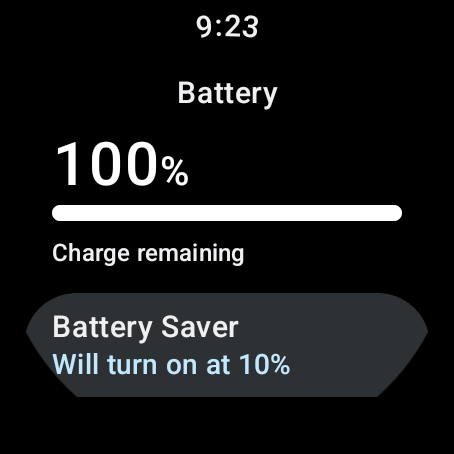
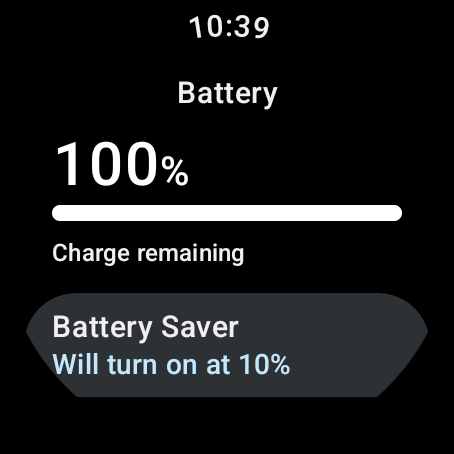
Record larger layout, gauge styling and verified weather tap evidence [skip ci]

Changed region(s): [[0.4009, 0.0308, 0.6167, 0.0925]]

diff --git a/docs/VALIDATION.md b/docs/VALIDATION.md
@@ -7,7 +7,7 @@ Build environment: Linux x86-64, Temurin JDK 17, Gradle 8.13, Android Gradle Plu
 | Check | Result |
 | --- | --- |
 | Generated WFF matches source generator | Pass |
-| Eight regression checks | Pass |
+| Eleven regression checks | Pass |
 | Official WFF validator 1.7.0, format 2 | Pass |
 | Debug APK and unsigned release AAB | Build successfully |
 | APK/AAB contents | No DEX; referenced images present |
@@ -15,7 +15,7 @@ Build environment: Linux x86-64, Temurin JDK 17, Gradle 8.13, Android Gradle Plu
 | Official memory evaluator, APK and AAB | Pass: active 3,551,360 bytes; ambient 3,181,712 bytes |
 | Whitespace/diff check | Pass |
 
-The regression checks cover six stable slots and their type renderers, distinct tap regions inside the circular screen, disjoint runtime rectangles and bounded rendering parts, all 16 weather conditions with day/night assets, unavailable forecast fallbacks, every hour across midnight/noon, and ambient layer visibility. A pixel-by-pixel geometry check verifies the complete horizontal edge-caption rectangles remain inside their clipping masks and the round screen. Resource-label checks also prevent Android-style `@string/` references in raw WFF editor attributes; WFF expects bare resource names.
+The regression checks cover six stable slots and their type renderers, distinct tap regions inside the circular screen, disjoint runtime rectangles and bounded rendering parts, all 16 weather conditions with day/night assets, unavailable forecast fallbacks, every hour across midnight/noon, and ambient layer visibility. A pixel-by-pixel geometry check verifies the complete rotated edge-caption rectangles remain inside their clipping masks and the round screen. A separate clearance check keeps the gauge strokes clear of those captions. Additional checks keep the minutes/seconds apart and prevent either weather tap target from overlapping a complication. Resource-label checks also prevent Android-style `@string/` references in raw WFF editor attributes; WFF expects bare resource names.
 
 Lint advisories include newer available tool versions, raw-WFF resource references that Android lint cannot trace, and backup metadata for a code-free package. No resource shrinking is enabled, and the package check confirms referenced image resources survive packaging.
 
@@ -25,23 +25,25 @@ Lint advisories include newer available tool versions, raw-WFF resource referenc
 
 The local Wear OS API 34 emulator was launched with software CPU emulation because this host has no `/dev/kvm`. It reached Android startup, but `system_server` repeatedly exceeded its 61-second watchdog timeout before package installation was available. These are operating-system boot failures; **no successful local install, watch-face rendering, complication interaction or ambient screenshot is claimed**.
 
-Hardware-accelerated [GitHub run 35470002909](https://github.com/DylanMc25/ultrawatchfaceedits/actions/runs/35470002909), commit `d6832f3`, passed builds/validation and both emulator jobs. The actual captures were downloaded and visually reviewed:
+Hardware-accelerated [GitHub run 35473692442](https://github.com/DylanMc25/ultrawatchfaceedits/actions/runs/35473692442), commit `38ca287`, passed builds/validation and both emulator jobs. The actual captures were downloaded and visually reviewed:
 
 | Check | API 34, 454 × 454 round | API 35-ext15, 384 × 384 round |
 | --- | --- | --- |
 | APK installation and face activation | Pass | Pass |
 | Blue gradient, stacked time, date and six areas | Rendered | Rendered |
-| 12/24-hour preference | 09 / 21 hours; forecast labels switch | 09 / 21 hours; forecast labels switch |
+| 12/24-hour preference | 10 / 22 hours; forecast labels switch | 10 / 22 hours; forecast labels switch |
 | Missing weather | `Weather —`, four dashes, future-hour labels | Same |
 | Default providers | Heart rate, steps, battery; unavailable sunrise/sunset | Same |
 | Black always-on with time/date only | Pass, display state `DOZE` | Pass, display state `DOZE` |
-| Ambient illuminated area at captured time | 2.9371% | 4.4743% |
+| Ambient illuminated area at captured time | 4.2275% | 2.1258% |
 
 Illumination counts every non-black pixel within the round screen, including system overlays, with no brightness cutoff. Both captures are below the documented [15% limit](https://developer.android.com/training/wearables/wff/ambient). These measurements establish the captured date/time only, not every possible date, font or device. These captures emulate an unplugged battery so the charging overlay does not cover the shortcut; API 35 still shows the system unread-status dot.
 
 The emulator weather service returned an internal server error; no populated native forecast is claimed. Heart rate and steps are supplied by the emulator's installed providers and are not physical health measurements. Missing provider icons render empty. No readings are fabricated by the face.
 
-Version 0.1.1 fixes edge text cropped by the arc clipping masks. Both edge captions are now horizontal and inset, with smaller text for longer provider values. Rounded rectangular masks contain the complete text rectangles while preserving the six disjoint interaction areas. Native captures still showed cropped bars on the smaller display after widening the earlier arc masks. Rounded bounds preserve the bars and captions and align editor selection with the runtime slot rectangles.
+Version 0.1.2 enlarges forecast temperatures (18 to 26), forecast times (14 to 19), main complication readings (21–23 to 32 for short values), provider titles (11 to 15), seconds (25 to 32), and the bottom shortcut (15–16 to 20). Longer values use smaller type to fit. Minutes are shifted left with a separate seconds column. The battery gauge now uses twelve radial ticks; the right edge has a thicker arc. Both edges use provider icons and angled labels inspired by the original reference. Rounded rectangular masks preserve complete rotated text and disjoint interaction areas.
+
+The weather reading and forecast region now have WFF `Launch` actions targeting `com.samsung.android.watch.weather`, including the unavailable-data state. WFF 2 has no generic weather shortcut in its [documented system launch targets](https://developer.android.com/reference/wear-os/wff/common/launch). Samsung Weather is not bundled in the stock emulators; native tap diagnostics record package-launch requests separately from actual app launch success. Both emulators record the correct package request from both tap areas, with no accidental complication launch. The `api*-weather-*-launch.txt` files show the missing-package/market fallback explicitly. Opening the Samsung app itself remains a physical Galaxy Watch check.
 
 Runtime testing also caught a battery tap being dispatched from the steps circle. The edge slots and all rendering parts now have bounded, disjoint rectangles, with a dedicated regression test; the circular/arc outlines alone were insufficient for native tap dispatch. The native interaction script confirms the blue face before every coordinate tap and reports any launch from the wrong slot.
 
@@ -55,7 +57,7 @@ Native tap logs identify the correct steps, sunrise/sunset and battery slots (2,
 
 The native editor supplies sample data: September 28 at 09:30, populated weather, heart rate, steps and sunset. Its captures verify the native populated-weather glyphs and spacing, including compact sunset text. These are **Wear OS editor sample readings**, not live weather or health. The actual face continues to display dashes when live weather is unavailable.
 
-The final API 34 ambient capture shows stippled text; API 35 shows continuous thin text. Both remain below 5% illumination. The measurement applies to each captured state; brightness and readability still need physical Galaxy Watch review.
+The final API 34 ambient capture shows continuous thin text; API 35 shows stippled text. Both remain below 5% illumination. The measurement applies to each captured state; brightness and readability still need physical Galaxy Watch review.
 
 ### Coverage boundaries
 
@@ -63,10 +65,12 @@ The final API 34 ambient capture shows stippled text; API 35 shows continuous th
 | --- | --- |
 | September date, real device text metrics | Reviewed on both emulators; no time/date clipping |
 | Longer localized dates, all wide digit pairs | Ellipsis/fit policies implemented; exhaustive native captures pending |
-| Midnight/noon and forecast rollover | All 24 input hours checked against generated label expressions; native captures also show 23:00 / 01:00 / 03:00 / 05:00 forecast labels and 12-hour equivalents. Main-clock noon/midnight transitions remain pending |
+| Midnight/noon and forecast rollover | All 24 input hours checked against generated label expressions; native captures also show 00:00 / 02:00 / 04:00 / 06:00 forecast labels and 12-hour equivalents. Main-clock noon/midnight transitions remain pending |
 | Temperature extremes and unit changes | Uses native temperature values; real weather service unavailable in these emulators |
 | Empty right/bottom complications | Setup placeholders rendered |
-| Edge labels on both display sizes | Battery “100” and assigned Alarm “Set” fully visible; six selectors and correct tap dispatch verified |
+| Edge labels on both display sizes | Angled battery “100” and assigned Alarm “Set” fully visible and clear of the gauges |
+| Weather tap areas | Both request Samsung Weather without dispatching a complication; the absent app causes the documented market fallback. Real Samsung app launch pending |
+| Larger readings and seconds | Native active/editor captures reviewed on both sizes; forecast values, provider values/titles and separated seconds remain readable |
 | Unavailable weather and sunrise/sunset | Observed in native captures |
 | Health permission denial | Physical provider consent flow pending |
 | Six separate touch targets | Visible selection geometry and rectangular runtime bounds pass regression checks; all six provider choosers opened independently on both emulators |

diff --git a/docs/PULL_REQUEST.md b/docs/PULL_REQUEST.md
@@ -1,6 +1,6 @@
 # Build blue stacked-time watch face with weather and six complications
 
-Replaces the placeholder Ultra Info Board layout with a blue gradient, oversized stacked time, three staggered circular complications, editable left/right edge indicators, and a bottom shortcut. Adds native current weather and four forecasts (+2/+4/+6/+8 hours), plus a black always-on time/date display. Default readings are heart rate, steps, sunrise/sunset and battery; the right edge and shortcut start unassigned. Edge captions are horizontal and inset, with rounded rectangular clipping masks so battery percentages and assigned provider text stay visible on round screens.
+Replaces the placeholder Ultra Info Board layout with a blue gradient, oversized stacked time, three staggered circular complications, editable left/right edge indicators, and a bottom shortcut. Adds native current weather and four forecasts (+2/+4/+6/+8 hours), plus a black always-on time/date display. Default readings are heart rate, steps, sunrise/sunset and battery; the right edge and shortcut start unassigned. Larger complication and forecast text improves readability. Minutes move left to give larger seconds their own column. The edges use a segmented left gauge, thicker right arc, provider icons and angled labels, with rounded rectangular clipping masks. Both weather areas target Samsung Weather on Galaxy Watch.
 
 ![Actual API 34 active face](https://raw.githubusercontent.com/DylanMc25/ultrawatchfaceedits/codex/watchface-redesign/docs/previews/emulator-api34-active.png)
 ![Actual API 35 ambient face](https://raw.githubusercontent.com/DylanMc25/ultrawatchfaceedits/codex/watchface-redesign/docs/previews/emulator-api35-ambient.png)
@@ -9,10 +9,10 @@ These are actual Wear OS emulator captures. Weather is unavailable in the emulat
 
 Repairs resource-only WFF 2 packaging, restores the pinned Gradle wrapper, produces a code-free debug APK and unsigned release AAB, and adds build/schema/memory checks plus round Wear OS emulator capture jobs. Includes editable-slot geometry checks, forecast rollover checks, original weather assets, picker preview, and installation/release documentation.
 
-Validation evidence and platform-test limitations are tracked in [docs/VALIDATION.md](https://github.com/DylanMc25/ultrawatchfaceedits/blob/codex/watchface-redesign/docs/VALIDATION.md). Local builds, lint (no errors), eight regression tests, official schema validation, package resource checks, and memory validation pass.
+Validation evidence and platform-test limitations are tracked in [docs/VALIDATION.md](https://github.com/DylanMc25/ultrawatchfaceedits/blob/codex/watchface-redesign/docs/VALIDATION.md). Local builds, lint (no errors), eleven regression tests, official schema validation, package resource checks, and memory validation pass.
 
 Both API 34 (454 px round) and API 35 (384 px round) render the face, follow 12/24-hour settings and enter the black ambient display. Reviewed ambient captures illuminate under 5% of the round screen, including system indicators. Complete evidence and untested cases are documented rather than inferred from build success.
 
-All six slots independently open their native provider chooser on both emulators. Steps, sunrise/sunset and battery taps dispatch to the correct slots, and battery opens system Battery settings. The native editor also renders the populated weather layout using its own sample data. The assigned Alarm edge label is also fully visible on both sizes. Real health-provider launches, live weather and provider persistence across updates/reboots remain physical-device checks. [Passing build, validation and emulator run](https://github.com/DylanMc25/ultrawatchfaceedits/actions/runs/35470002909).
+All six slots independently open their native provider chooser on both emulators. Steps, sunrise/sunset and battery taps dispatch to the correct slots, and battery opens system Battery settings. The native editor also renders the populated weather layout using its own sample data. The assigned Alarm edge label is also fully visible on both sizes. Both weather tap areas request the correct Samsung Weather package without triggering a complication. The stock emulators lack Samsung Weather, so its actual launch remains a physical-device check, alongside real health-provider launches, live weather and provider persistence across updates/reboots. [Passing build, validation and emulator run](https://github.com/DylanMc25/ultrawatchfaceedits/actions/runs/35473692442).
 
 This is a development milestone. Physical Galaxy Watch testing, live weather and Samsung provider/permission flows, final store identity, release signing and Play listing preparation remain required before sale.

diff --git a/README.md b/README.md
@@ -10,13 +10,15 @@ A resource-only Galaxy Watch / Wear OS face with a blue gradient, large stacked 
 
 ## Layout
 
-- Month and day/date above large hours/minutes; seconds in interactive mode.
+- Month and day/date above large hours/minutes; minutes shifted left with a larger separate seconds column.
 - Three staggered circles on the right: heart rate, steps, sunrise/sunset by default.
-- Left edge defaults to battery; right edge and bottom shortcut start unassigned.
-- Current weather and forecasts for +2, +4, +6, +8 hours, with icons, temperatures and local times.
+- Segmented left battery gauge, thick right-edge arc, provider icons and angled edge labels. Right edge and bottom shortcut start unassigned.
+- Larger current weather and four forecasts (+2, +4, +6, +8 hours), with icons, temperatures and local times. Tap the current reading or forecasts to open Samsung Weather on Galaxy Watch.
 - Black always-on display with thin time and date; all other content is hidden.
 
 Long-press the face and choose **Customize** to assign each slot. Providers available on a particular watch determine which data/apps can be selected. Samsung activity, stress, media and Gemini are not bundled or guaranteed providers. A `+` marks an unassigned area; assign it through the editor. Weather and health readings are never hard-coded; unavailable readings remain empty or show a dash. The face uses the system's weather data and temperature unit and follows 12/24-hour time preferences.
+
+The weather shortcut targets the preinstalled Samsung Weather app (`com.samsung.android.watch.weather`). It is separate from the native weather data source. Other Wear OS brands and the stock emulator may not have this app; opening the actual Samsung app requires a physical Galaxy Watch check.
 
 ## Build and install
 

diff --git a/docs/RELEASE.md b/docs/RELEASE.md
@@ -5,6 +5,7 @@ This repository produces a development build, not a signed production submission
 - Choose the permanent application ID, publisher identity, store name and versioning; remove `com.example` before first publication.
 - Test on physical Galaxy Watch hardware, including a smaller round model: readable digits, every tap area, complication editor, health consent, provider launch actions, weather/location setup, and background/always-on transitions.
 - Exercise real providers for short text (with and without icons/titles), images, ranged values, goals exceeded, and weighted elements. Check unavailable/no-permission and empty states. Samsung-specific data availability must be verified on-device.
+- Verify that both the current-weather and forecast tap areas open Samsung Weather on the target Galaxy Watch firmware. Test the missing/disabled app case; add another app target before advertising weather-launch support on other Wear OS brands.
 - Confirm the forecast's units and local-hour labels across midnight, time-zone changes and daylight-saving transitions. Verify weather unavailable and partially available forecasts. Check all weather conditions including night variants.
 - Inspect long localized month/day strings, temperature extremes, large step counts, 12/24-hour time, and settings persistence after updates.
 - Measure active/ambient memory with Google's current tools, actual ambient lit-pixel ratio (under 15%), and real battery consumption. A static preview cannot establish battery behavior.

diff --git a/docs/previews/README.md b/docs/previews/README.md
@@ -15,6 +15,8 @@ The `*-editor.png` images are the real Wear OS editor, using **system sample rea
 
 The `*-edge-alarm.png` images assign the system Alarm provider to the right edge on the disposable emulator. They verify that its “Set” text and the left battery label are fully visible. The default APK still leaves the right edge unassigned.
 
+Weather-tap diagnostics distinguish a request to launch Samsung Weather from a successful app launch. The stock emulators lack the Samsung app; verify the actual destination on Galaxy Watch.
+
 ## Illustrative populated-weather layout
 
 `active-illustrative.png` and `ambient-illustrative.png` are **illustrative renders**, not emulator screenshots. They read the committed WFF geometry/colors and use explicit sample data (September 19, 02:26, 71 bpm, 8,420 steps, 62% battery, sample weather). Actual readings always come from Wear OS/providers.
